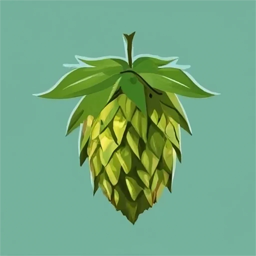
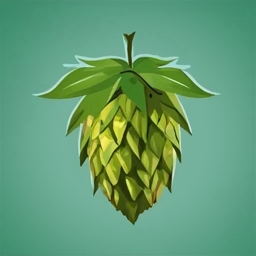
More featured hops

Changed region(s): [[0.0, 0.0, 1.0, 1.0]]

diff --git a/web_app/templates/index.html b/web_app/templates/index.html
@@ -58,7 +58,7 @@
                             {% with "img/hops/hop-cones-drawing-"|add:hop.image_id|add:".png" as image_static %}
                                 <a href="{{ hop|url }}"><img src="{% static image_static %}" alt="Artistic drawing of hop cones" class="teaser-image float-end ms-3 mb-1 border rounded-2" /></a>
                             {% endwith %}
-                            {{ hop|description|truncatechars_html:400 }}
+                            {{ hop|description|truncatechars_html:360 }}
                             <p class="mb-0"><a href="{{ hop|url }}" class="btn btn-secondary">Learn more ›</a></p>
                         </div>
                     </article>

diff --git a/web_app/views/misc.py b/web_app/views/misc.py
@@ -11,10 +11,11 @@ from web_app.charts.style import StyleChartFactory
 from web_app.charts.yeast import YeastChartFactory
 from web_app.meta import PageMeta, HomeMeta
 
+FEATURED_HOPS = ['talus', 'nectaron', 'enigma', 'pacific-sunrise']
 
 @cache_page(DEFAULT_PAGE_CACHE_TIME, cache="default")
 def home(request: HttpRequest) -> HttpResponse:
-    discover_hops = Hop.objects.filter(id__in=['talus', 'nectaron'])
+    discover_hops = Hop.objects.filter(id__in=FEATURED_HOPS).order_by('-recipes_count')
 
     recipes = Recipe.objects.count()
     meta = HomeMeta().get_meta()

diff --git a/recipe_db/models.py b/recipe_db/models.py
@@ -473,7 +473,7 @@ class Hop(models.Model):
 
     @property
     def image_id(self) -> str:
-        return str(crc32(str.encode(self.id)) % 15 + 1)
+        return str(crc32(str.encode(self.id)) % 31 + 1)
 
     @property
     def category(self) -> str:
